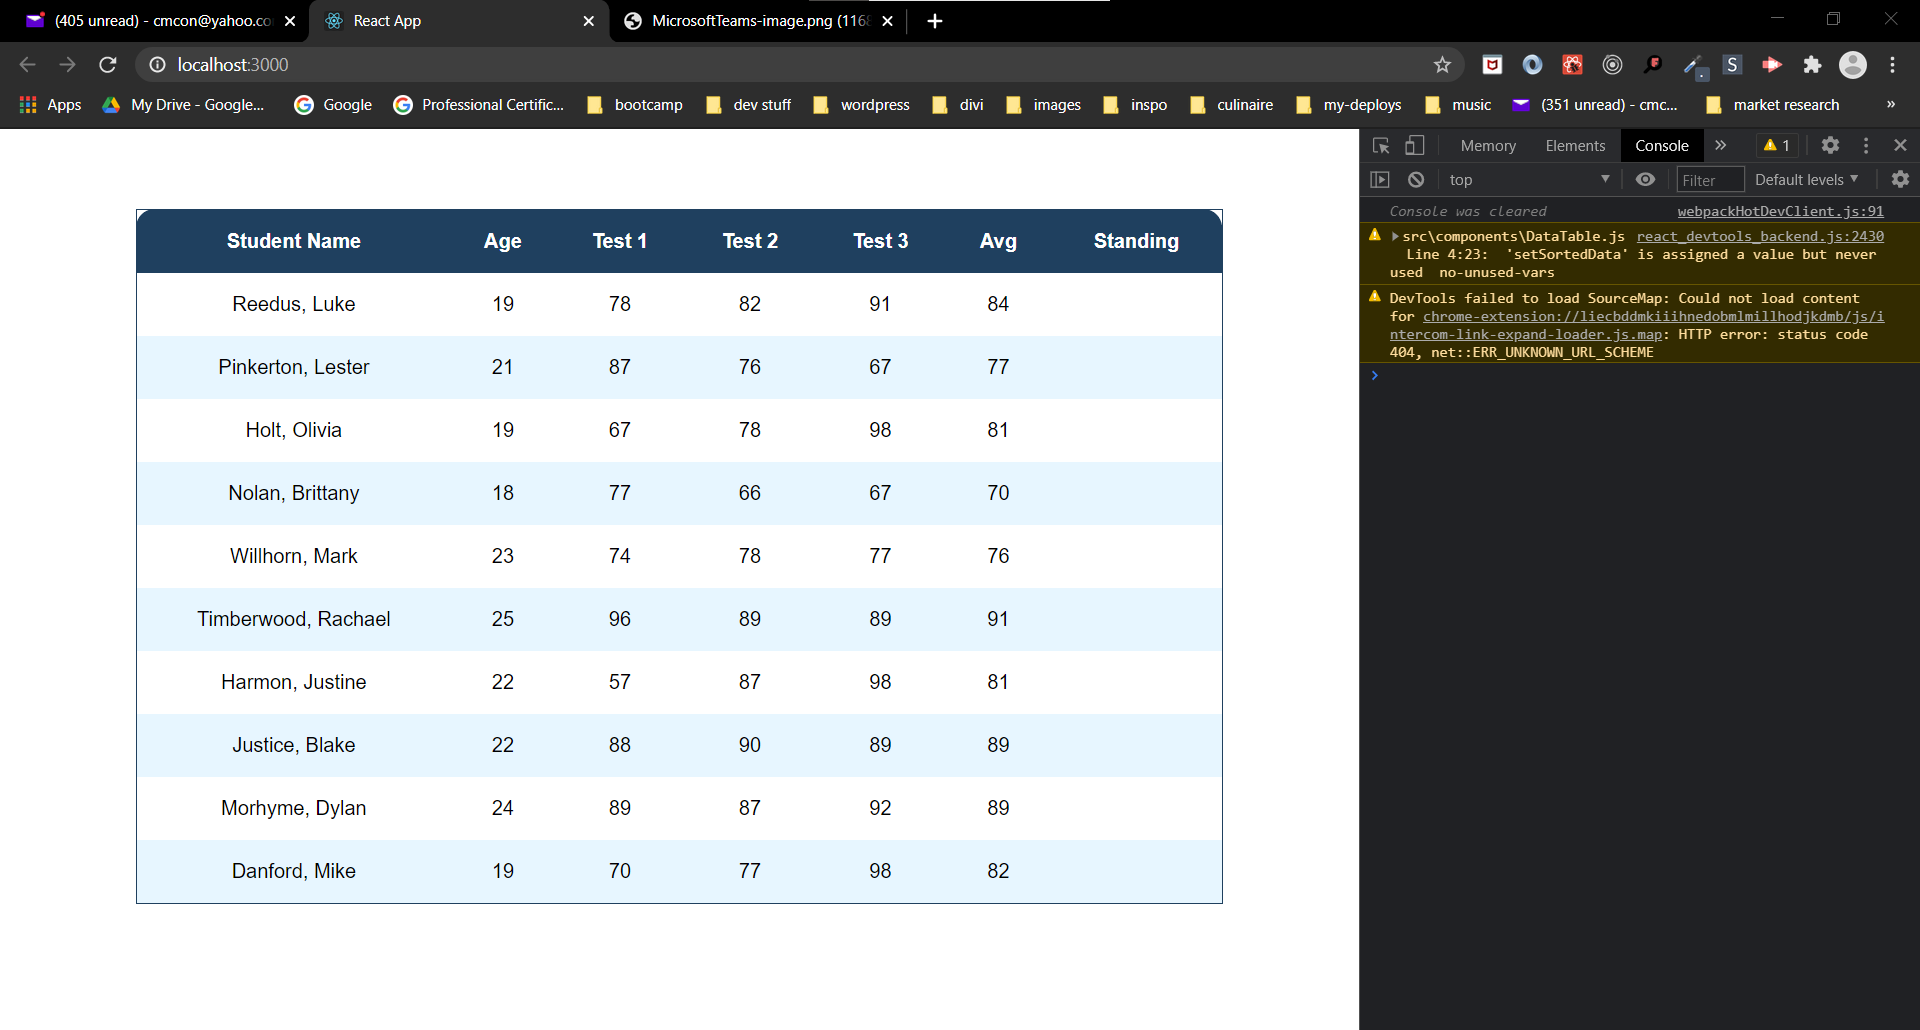
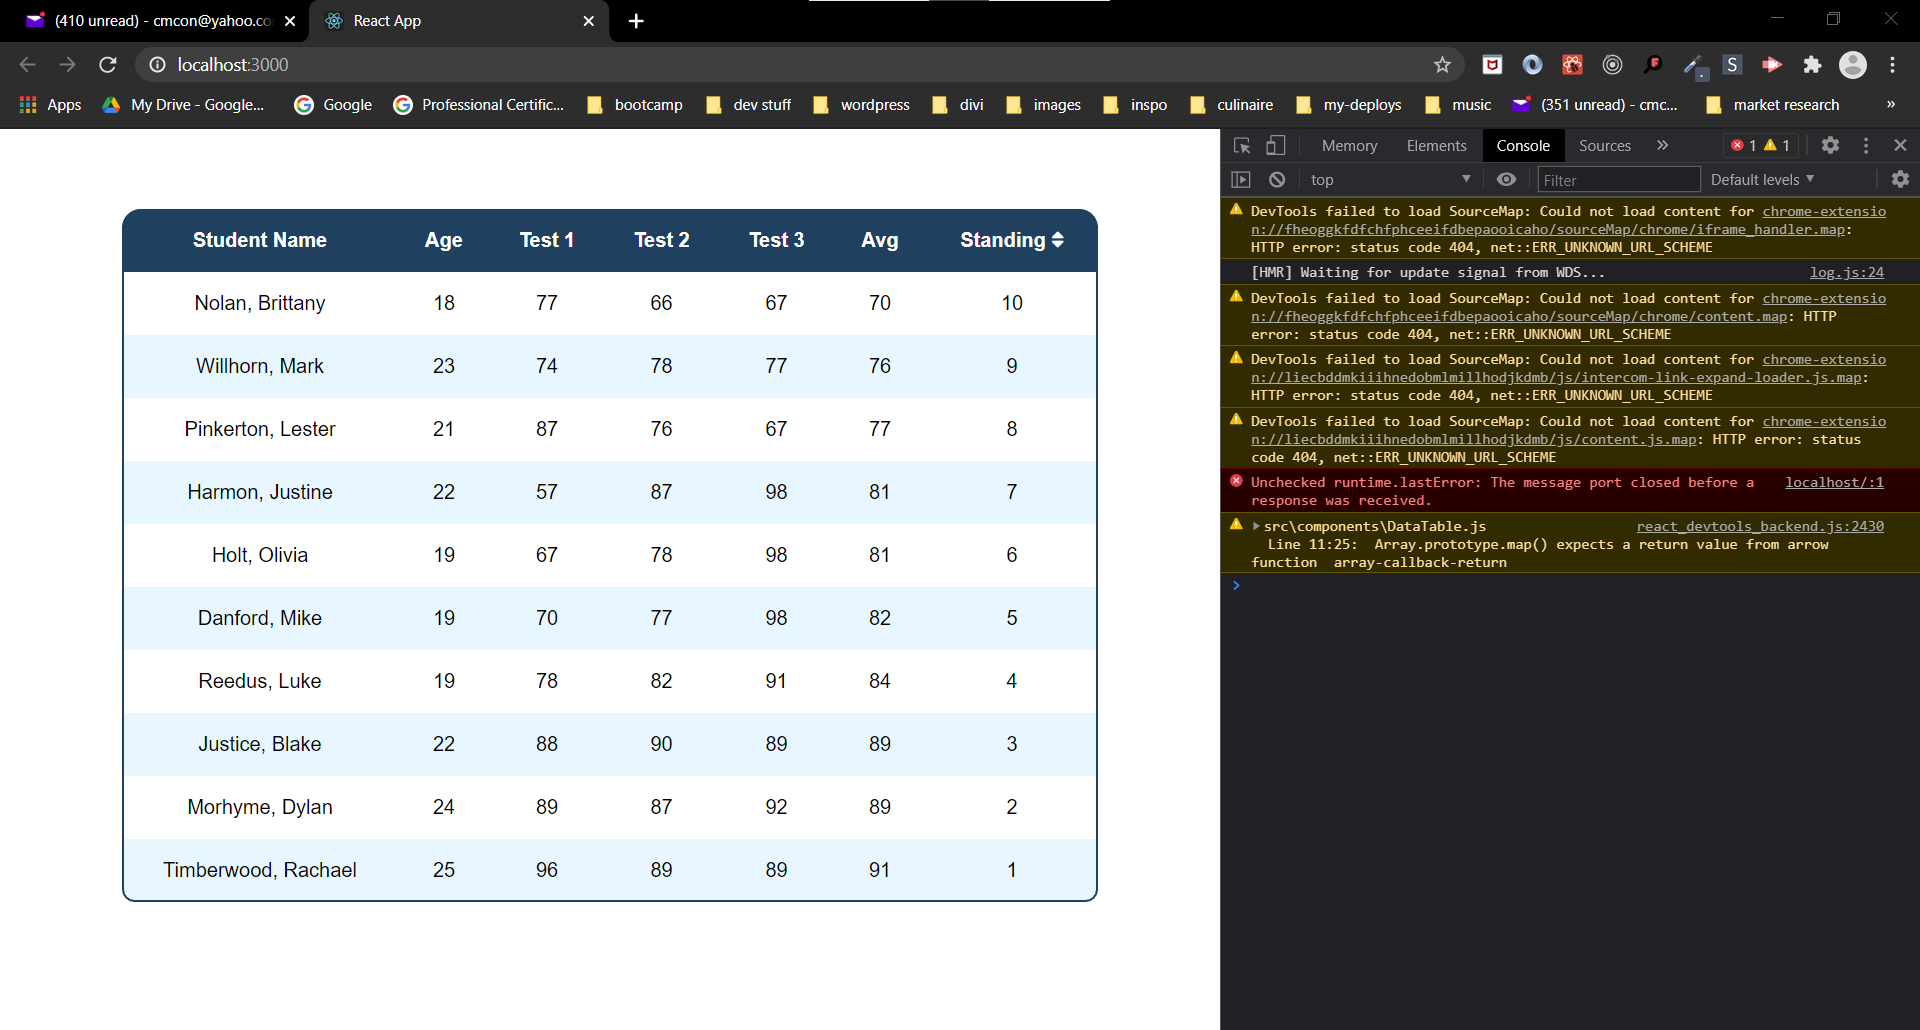
stash

diff --git a/src/components/DataTable.js b/src/components/DataTable.js
@@ -5,14 +5,15 @@ const DataTable = ({ data }) => {
 	const [ sortedData, setSortedData ] = useState([ ...data ])
 	const [ direction, setDirection ] = useState('asc')
 
-
   const rankedStudents = []
 
+  // calculate student averages and add to objects.  push updated objects to array for ranking
   sortedData.map(person => {
     person.avg = average(Object.values(person.scores))
     rankedStudents.push(person)
   })
 
+  // calculate rankings and add to student objects
   rankedStudents.sort((a, b) => {
     if (a.avg < b.avg) {
       return -1
@@ -25,6 +26,7 @@ const DataTable = ({ data }) => {
     student.standing = idx + 1 
   })
 
+  // sort based on rankings
 	function handleSort() {
 		let sorted = [...sortedData]
 		if (direction === 'asc') {
